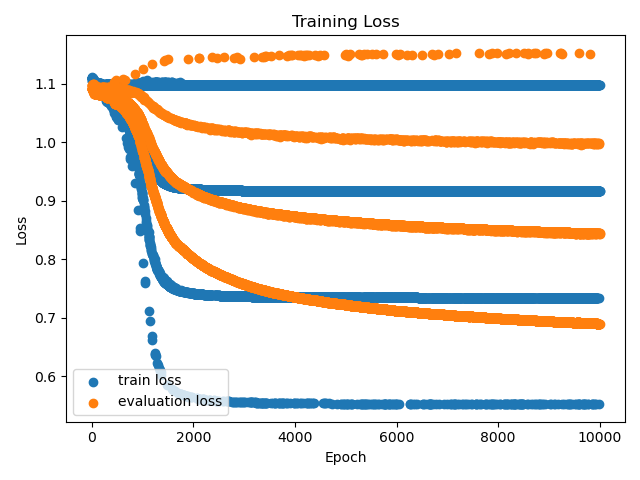
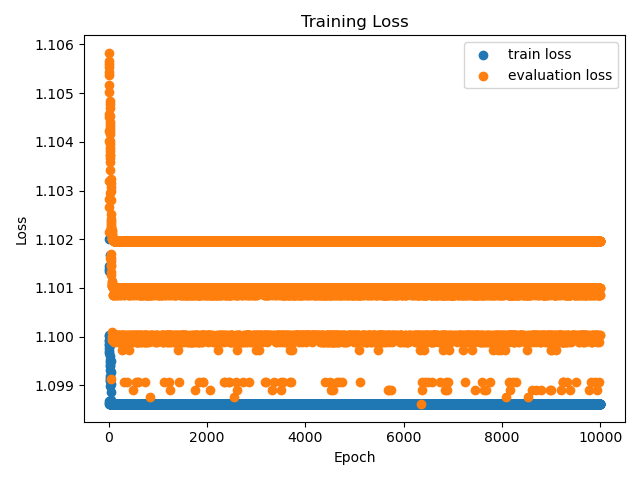
unstable accuracy of trained model

diff --git a/cell.py b/cell.py
@@ -281,7 +281,7 @@ for i in range(epoch):
         loss.backward()
         optimizer.step()
         loss_item = loss.detach().item()
-    train_losses.append(loss_item)
+        train_losses.append(loss_item)
     # print('train loss',loss.item())
     # test
     epoch_test = []
@@ -293,7 +293,7 @@ for i in range(epoch):
         targets = models(data.float())
         loss = loss_fn(targets,label)
         loss_item = loss.detach().item()
-    eval_losses.append(loss_item)
+        eval_losses.append(loss_item)
     # eval_losses.append(loss.item()*data.size(0))
     # print('test loss',loss.item())
 # plot the losses
@@ -301,6 +301,7 @@ fig1, ax1 = plt.subplots()
 ax1.set_title('Training Loss')
 ax1.set_xlabel('Epoch')
 ax1.set_ylabel('Loss')
+print(len(train_losses))
 ax1.scatter(np.arange(len(train_losses)),train_losses, label='train loss')
 ax1.scatter(np.arange(len(eval_losses)),eval_losses, label='evaluation loss')
 ax1.legend()
